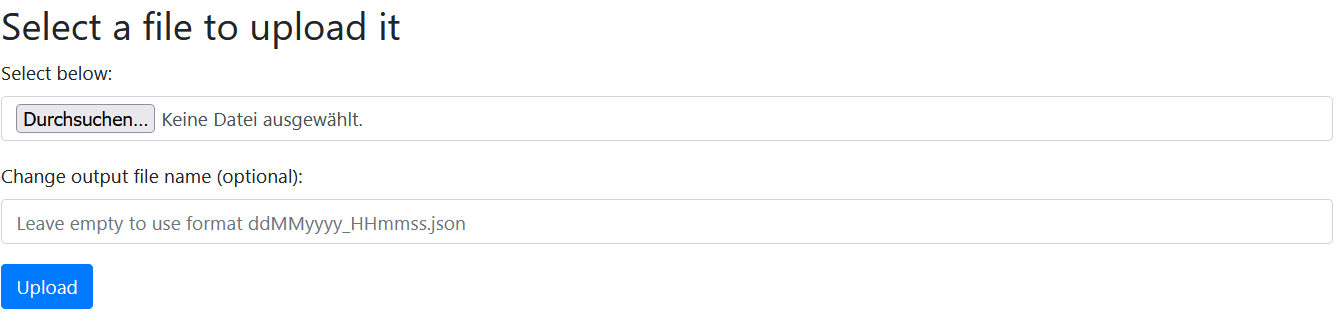
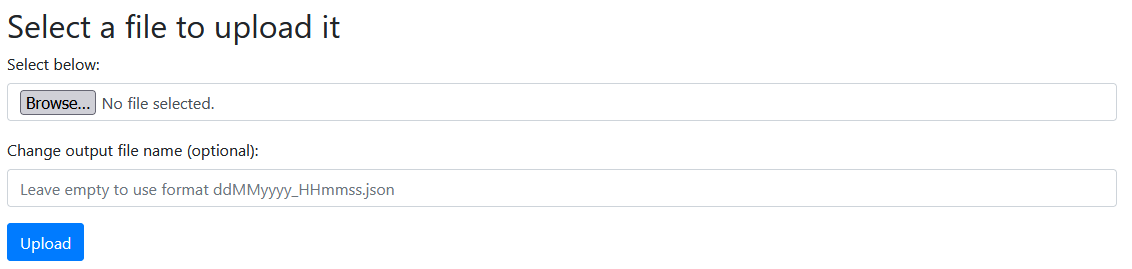
readme changes again

diff --git a/README.md b/README.md
@@ -1,7 +1,7 @@
 # COBOL Dependency Graph with ANTLR4 and Spring Boot
 
 ## Installing Maven
-You need to install maven to start the project
+Please install Maven to run the programm locally
 [Maven download link](https://maven.apache.org/download.cgi)
 
 ## Run Program with Maven installed locally
@@ -26,7 +26,7 @@ When clicking on `Upload file`, a new page opens up where you can upload a file.
 
 ![browse_file](./readMeImages/browse_file.png)
 
-If you click on `Durchsuchen`, which would be `Browse` if your PC is set to English, you can browse one file on your local machine. When clicking on `Upload`, the file will be uploaded to the project where it will be parsed and visited by ANTLR.
+If you click on `Browse`, you can browse one file on your local machine. When clicking on `Upload`, the file will be uploaded to the project where it will be parsed and visited by ANTLR.
 
 #### Folder
 
